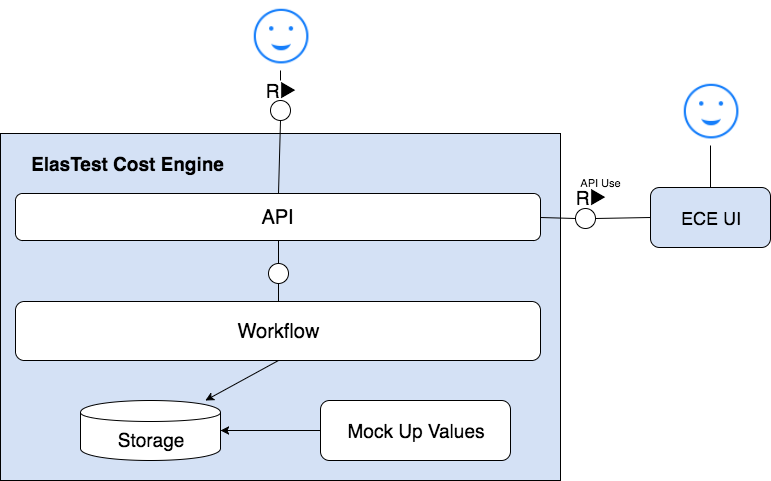
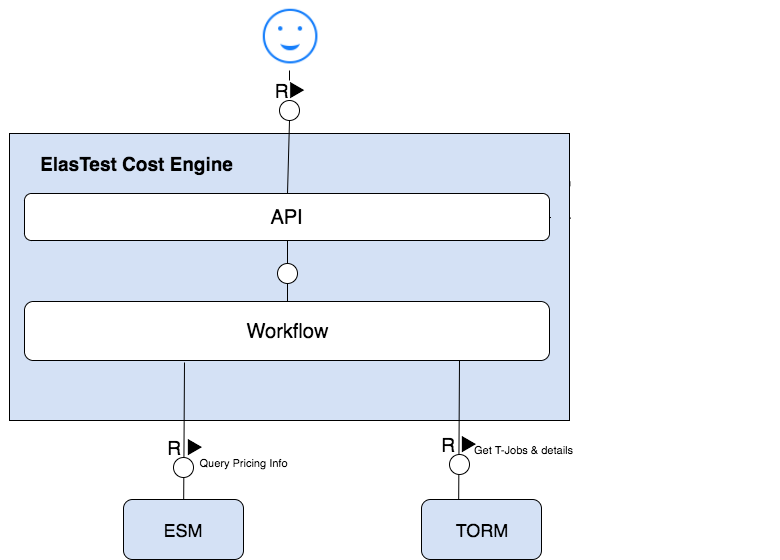
Added docs

diff --git a/src/main/java/io/elastest/ece/load/Settings.java b/src/main/java/io/elastest/ece/load/Settings.java
@@ -71,7 +71,7 @@ public class Settings {
         if (env.containsKey("ESTIMATIONRANGE")) {
             List range = new ArrayList<>();
             List intRange = new ArrayList<>();
-            range.addAll(Arrays.asList(env.get("EstimationRange").split(",")));
+            range.addAll(Arrays.asList(env.get("ESTIMATIONRANGE").split(",")));
             for (int i = 0; i < range.size(); i++) {
                 intRange.add(Integer.parseInt((String) range.get(i)));
             }

diff --git a/docs/dev-docs.md b/docs/dev-docs.md
@@ -1,0 +1,135 @@
+# ElasTest Cost Engine (ECE)
+
+The Cost, Energy and Resource Consumption Modeling Engines (ECE) will be used in order to make ElasTest consider the financial of using clouds. Using clouds cost money, in third party clouds you pay for the time and resources you use. As well as in on-premises clouds, you pay for the energy and the hardware resources utilization. If ElasTest does not consider this aspects, the risk of not being financially sustainable appears.
+
+The ECE is a service that needs information from the ElasTest Service Manager (ESM) and the ElasTest Platform Manager (EPM) for pulling information about the Platforms and Services Cost Models, and also needs information from the ElasTest Test Orchestration and Recommendation Manager (TORM) in order to know what T-Jobs can the ElasTest user estimate.
+
+## Features
+
+The version 0.5.0 of the ElasTest Cost Engine, provides the following features:
+
+- Estimate costs of T-Job executions based on the existing Service cost models defined by the [ESM](https://github.com/elastest/elastest-service-manager).
+
+## How to run
+
+1. Install Docker.
+
+2. Install Docker Compose. 
+
+3. From the root folder, run the image using the following command: 
+   - `sudo docker-compose up`
+
+## Basic uasge
+
+When the ECE is instantiated, a basic UI will be exposed at http://localhost:8888
+
+The 0.5.0 version of ECE uses real data coming from different ElasTest Components. The T-Jobs are 
+pulled from the [TORM](https://github.com/elastest/elastest-torm) and the Cost Models that are used come from whatever ElasTest Services are used.
+
+The ECE UI offers the functionality to estimate the price of running a specified T-Job running for different time intervals. 
+![ElasTest Cost Engine Preconfigured Estimations Page](imgs/ECEPreconfiguredEstimations.png)
+
+Even though it is not used in this version, the ECE UI also ofers a simple way to manage all the Cost Models, creating, deleting and requesting for the json structure.
+
+## Use-case specific GUI
+
+The ECE offers a graphical user interface for the following usecase:
+
+- Estimate a TJob execution cost based on time basis using a predefined configuration or a specified value: http://localhost:8888/
+
+---
+
+## Development documentation
+
+
+ECE is developed using Java and Spring MVC. 
+
+## Development Environment
+
+- Java 8 or higher. 
+- Maven 3 or higher.
+- Preferred IDE that can use Maven, Java and HTML.
+
+
+### Architecture
+
+The ElasTest Cost Engine has aims to provide a [HTTP Rest API](http://elastest.io/docs/api/ece/) that computes cost 
+estimations for running T-Jobs under a concrete Infrastructure Cost Model.
+
+ECE will be in contact with the following ElasTest services:
+   - [The ESM](https://github.com/elastest/elastest-service-manager) will be used to query the Services pricing strategies.
+   - [The EPM](https://github.com/elastest/elastest-platform-manager) will be used to query the Platform pricing strategies.
+   - [The TORM](https://github.com/elastest/elastest-torm) will provide the T-Job details.
+   - [The EMS](https://github.com/elastest/elastest-monitoring-service) will provide information about the running T-Jobs.
+
+
+![ElasTest Cost Engine final architecture](imgs/ECEArch.png)
+
+For now, the 0.5.0 version is using part of the final architecture and it will be completed as the project and the rest of ElasTest Components advance.
+
+![ElasTest Cost Engine Mock up architecture](imgs/MockECE.png)
+
+The Cost Models are defined in a generic way so can be adapted to several cases from VM orchestrations, Service 
+instantiations and Services that contain VM orchestration as part of them. The data model used is the following:
+
+   - `name` : Name of the Cost Model.
+   - `type` : Cost Model type.
+   - `fix_cost` : Map containing the keys and values of the fields that need to be accounted in a fix bases.
+   - `var_rate` : Map containing the keys and values of the fields that need to be accounted under a pay as you go premises.
+   - `components` : Map containing the links to another Cost Models.
+   - `description` : Description of the Cost Model.
+
+# TSS Developer support
+
+## How to Define a TSS Cost Information
+
+When creating a TSS, its cost information must be taken into account. In order to do that, the ElasTest Cost Engine (ECE) offers different APIs that help estimate the cost of them by using Cost Models. Every TJob could be composed of different TSSs, this TSSs will have a Cost Model associated to them since its creation, so the Cost can be ultimately computed.
+
+### Cost Model
+
+A Cost Model is a definition that usually describes attributes of a product or project so it can be used to estimate its cost.
+ 
+In the ElasTest environment, every Service will have an associated Cost Model of its own, and the TJob costs will be accounted based on the services used in them. However, some Tests might need to use some external service which is not already in the ElasTest platform. If that is the case, an advanced feature of the ElasTest platform will be the ability to define an external cost models for those services.
+
+### ElasTest Cost Model Definition
+
+As the Cost Models are used to estimate the cost of a TJob, they are defined in a generic way. This allows different use cases to be estimated properly. The data model used is the following:
+
+- name : String - Name of the Cost Model that will be displayed to the User. Helps identifying the Cost Model.
+- type : String - Cost Model type (Currently supported “On Demand”, expected to be supported “PAYG” and “External”).
+- fix_cost : Map containing the keys and values of the fields that need to be accounted in a fix bases. This fields will be included in the estimation cost regardless. Empty if there is no use of fixed cost elements. 
+- var_rate : Map containing the keys and values of the fields that need to be accounted under a pay as you go premises. In order to make it understandable, all costs will be based on a minute basis. Empty if there is no use of variable rate elements. ECE accepts any value on this fields and will estimate the cost based on them, however we recommend using the same metrics that docker stats provide or the platform where ElasTest is deployed can provide and measure. At the moment the recommended values for clarity are are cpu_usage, mb_ram_usage, net_io_usage and block_io_usage .
+- components : Map containing the links to other Cost Models (Currently supported “Services” as a key containing an array of Service Id’s). Empty if there is no use of separated components.
+- description : String - Description of the Cost Model. Helps the user identifying the Cost Model.
+
+An example of a Cost Model definition could be as the following:
+
+```
+{
+  "name" : "CostModelX",
+  "type" : "On Demand",
+  "fix_cost" : {
+    "deployment" : 12.5
+  },
+  "var_rate" : {
+    "cpu_core" : 10, 
+    "gb_ram" : 5, 
+    "gb_ssd" : 0.6,
+    "gb_hhd" : 0.0775
+  },
+  "components":{
+    "Services" : ["CostModelYId"]
+  },
+  "description" : "On demand provisioning of a VM. Includes as a component a package X accounted by the Cost Model Y"
+}
+```
+
+## How will the ECE Interact with the Cost Model
+
+The ElasTest Cost Engine will receive the T-Job information from the TORM and will use the ESM APIs to query the cost information (in the expected format) of the services used in the T-Job.
+
+The ECE will extract the information from the JSON body in order to compute the usage costs. In order to do that the ECE will use the “fix_cost” fields to simply add the present prices, the “var_rate” fields will be used in order to simulate several Pay As You Go (PAYG) situations (e.g. Different time running, different CPU Resources). The field “components” is used as a map referencing other cost models that also have to be taken into account, this way a single TJob cost model or TSS cost model can include different already-defined cost models.
+
+## Advanced Features
+
+We understand that a TJob may need to use complex services that might not be offered by the ElasTest Platform, however, an external service might be very difficult to monitor. In order to solve this, the ECE will allow to generate cost models that only contain fix costs under the “fix_cost” field. This way we ensure that if there is an existing cost for the external services that the developer knows in beforehand or a personal estimate for the use of the service. This data will be used to define a Cost model that the ECE that will be eligible as a TJob component as if it were a TSS so it can be used to estimate the final price.

diff --git a/docs/index.md b/docs/index.md
@@ -6,10 +6,9 @@ The ECE is a service that needs information from the ElasTest Service Manager (E
 
 ## Features
 
-The version 0.1 of the ElasTest Cost Engine, provides the following features:
+The version 0.5.0 of the ElasTest Cost Engine, provides the following features:
 
-- Estimate basic costs of T-Job executions based on already existing cost models.
-- Create and Manage Cost Models
+- Estimate costs of T-Job executions based on the existing Service cost models defined by the [ESM](https://github.com/elastest/elastest-service-manager).
 
 ## How to run
 
@@ -22,24 +21,21 @@ The version 0.1 of the ElasTest Cost Engine, provides the following features:
 
 ## Basic uasge
 
-When the ECE is started correctly, a basic UI will be exposed at http://localhost:8888
+When the ECE is instantiated, a basic UI will be exposed at http://localhost:8888
 
-The 0.1 version of ECE initializes the databases and includes two different Cost Models as initial values. The T-Jobs are 
-mocked up until the DSL is correctly defined. 
+The 0.5.0 version of ECE uses real data coming from different ElasTest Components. The T-Jobs are 
+pulled from the [TORM](https://github.com/elastest/elastest-torm) and the Cost Models that are used come from whatever ElasTest Services are used.
 
-The ECE UI offers the functionality to estimate the price of running a specified T-Job running under a Cost Model. 
-![ElasTest Cost Engine Demo Interface v0.1](imgs/CostEngine002Demo.png)
+The ECE UI offers the functionality to estimate the price of running a specified T-Job running for different time intervals. 
+![ElasTest Cost Engine Preconfigured Estimations Page](imgs/ECEPreconfiguredEstimations.png)
 
-The ECE UI also ofers a simple way to manage all the Cost Models, creating, deleting and requesting for the json structure.
+Even though it is not used in this version, the ECE UI also ofers a simple way to manage all the Cost Models, creating, deleting and requesting for the json structure.
 
 ## Use-case specific GUI
 
-The ECE offers a set of separate graphical user interfaces for each of the following usecases:
+The ECE offers a graphical user interface for the following usecase:
 
-- Create a Cost Model: http://localhost:8888/createcostmodel
-- Delete a Cost Model: http://localhost:8888/deletecostmodel
-- Get Cost Model details: http://localhost:8888/costmodeldetails
-- Estimate a TJob and Cost Model cost: http://localhost:8888/estimate
+- Estimate a TJob execution cost based on time basis using a predefined configuration or a specified value: http://localhost:8888/
 
 ---
 
@@ -47,6 +43,14 @@ The ECE offers a set of separate graphical user interfaces for each of the follo
 
 
 ECE is developed using Java and Spring MVC. 
+
+## Development Environment
+
+- Java 8 or higher. 
+- Maven 3 or higher.
+- Preferred IDE that can use Maven, Java and HTML.
+
+
 ### Architecture
 
 The ElasTest Cost Engine has aims to provide a [HTTP Rest API](http://elastest.io/docs/api/ece/) that computes cost 
@@ -61,8 +65,7 @@ ECE will be in contact with the following ElasTest services:
 
 ![ElasTest Cost Engine final architecture](imgs/ECEArch.png)
 
-For now, the 0.1 version is using Mock up values to simmulate the interaction with the rest of the ElasTest Components.
-
+For now, the 0.5.0 version is using part of the final architecture and it will be completed as the project and the rest of ElasTest Components advance.
 
 ![ElasTest Cost Engine Mock up architecture](imgs/MockECE.png)
 

diff --git a/docs/user-docs.md b/docs/user-docs.md
@@ -23,7 +23,7 @@ The landing page of ECE allows to select between the standard (preconfigured) ti
 
 All the estimations are done based on which services are used in the TJob and their own cost definitions.
 
-By selecting the TJobs on the first menu, the estimations will be based on the ammount of minutes defined in the [configuration file](https://github.com/elastest/elastest-cost-engine/blob/master/conf/ece.conf).
+By selecting the TJobs on the first menu, the estimations will be based on the ammount of minutes defined in the [configuration file](https://github.com/elastest/elastest-cost-engine/blob/master/conf/ece.conf) and/or as an environment variable on the [docker-compose](https://github.com/elastest/elastest-cost-engine/blob/master/docker-compose.yml) file.
 
 ![ElasTest Cost Engine Preconfigured Option Selection](imgs/ECEPreconfiguredOption.png)
 
